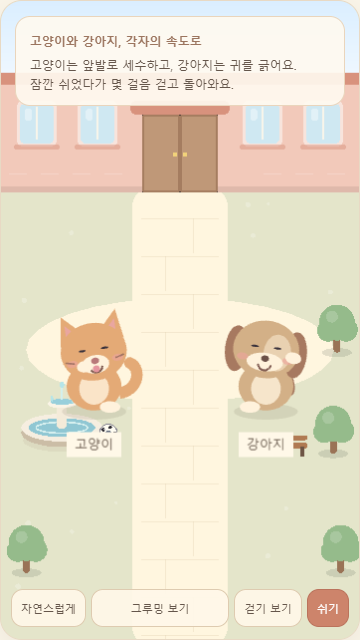
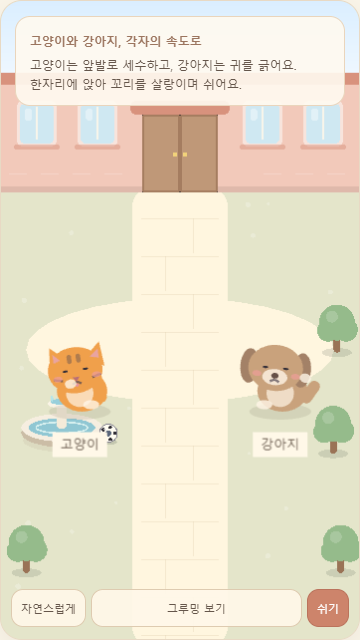
fix(game): 공개판 고양이 비율 복원하고 동물 자리 고정

diff --git a/game/review/round/pets.ts b/game/review/round/pets.ts
@@ -1,45 +1,44 @@
 import Phaser from 'phaser';
 import { petPoseAt, type PetKind } from './pet-motion';
 
-/** Review art only. Each pet stays within a few steps of its original spot. */
+/** Preserve draw.ts's public cat face: small eyes, short head, whiskers and stripes. */
+function petHead(scene:Phaser.Scene,kind:PetKind,fur:number){
+  const s=scene.add,cat=kind==='cat',face=s.graphics();
+  if(cat){
+    face.fillStyle(fur).fillTriangle(-11,-1,-10,-11,-3,-5).fillTriangle(5,-5,12,-11,13,0);
+    face.fillStyle(0xe9a4a1).fillTriangle(-9,-4,-9,-8,-6,-5).fillTriangle(7,-5,11,-8,11,-4);
+    face.fillStyle(0x514651,.4).fillRoundedRect(-3,-7,2,4,1).fillRoundedRect(1,-7,2,4,1);
+    face.lineStyle(1,0x514651,.7).lineBetween(-10,3,-6,4).lineBetween(7,4,11,3);
+  }
+  face.lineStyle(1,0x514651,.7).lineBetween(0,5,-2,6).lineBetween(0,5,2,6);
+  const eyes=[-4.5,4.5].map(x=>s.circle(x,0,1.2,0x332e38));
+  const tongue=s.ellipse(0,6.5,1.6,1.5,0xe5959e).setVisible(false);
+  const ears=cat?[]:[s.ellipse(-11.5,0,8,15,0xa38167),s.ellipse(11.5,0,8,15,0xa38167)];
+  const root=s.container(0,0,[...ears,s.ellipse(0,0,24,20,fur),
+    ...(cat?[]:[s.ellipse(0,4,11,7,0xfff5e6,.8)]),face,...eyes,
+    s.ellipse(-8,3,4,2.5,0xef9d99,.7),s.ellipse(9,3,4,2.5,0xef9d99,.7),
+    cat?s.triangle(0,4,0,0,3,0,1.5,2,0xb96f76):s.ellipse(0,3.4,3.2,2.5,0x665047),tongue]);
+  return {root,eyes,tongue};
+}
+
+/** Seated public-game proportions; every action stays at the original spot. */
 export class RoundPet {
   readonly root:Phaser.GameObjects.Container;
   private body:Phaser.GameObjects.Container;
-  private head:Phaser.GameObjects.Container;
-  private tail:Phaser.GameObjects.Container;
+  private head:ReturnType<typeof petHead>;
+  private tail:Phaser.GameObjects.Rectangle;
   private paw:Phaser.GameObjects.Ellipse;
-  private tongue:Phaser.GameObjects.Ellipse;
   private feet:Phaser.GameObjects.Ellipse[];
-  private eyes:Phaser.GameObjects.Arc[];
   private clock=0;
   constructor(scene:Phaser.Scene,readonly kind:PetKind,private anchor:{x:number;y:number},scale=1){
-    const s=scene.add,cat=kind==='cat',fur=cat?0xe4aa76:0xd3b087,cream=0xfff2dc;
-    const tailArt=s.graphics();
-    if(cat){
-      const curve=new Phaser.Curves.Path(0,0).cubicBezierTo(5,-13,9,-1,10,-11);
-      tailArt.lineStyle(5,fur).strokePoints(curve.getPoints(14),false).fillStyle(fur).fillCircle(5,-13,2.5);
-    }else tailArt.fillStyle(0xa77960).fillEllipse(0,-6,6,14);
-    this.tail=s.container(11,-7,[tailArt]);
-    this.feet=[-7,7].map(x=>s.ellipse(x,-1,9,5,cream));
-    const ears=s.graphics();
-    if(cat){
-      ears.fillStyle(fur).fillTriangle(-14,-5,-12,-18,-3,-9).fillTriangle(3,-9,12,-18,14,-5);
-      ears.fillStyle(0xe9a6a0).fillTriangle(-11,-8,-11,-14,-6,-9).fillTriangle(6,-9,11,-14,11,-8);
-    }else ears.fillStyle(0xa77960).fillEllipse(-13,0,10,20).fillEllipse(13,0,10,20);
-    const face=s.graphics();
-    face.fillStyle(0xeca49b,.65).fillEllipse(-10,3,5,3).fillEllipse(10,3,5,3);
-    face.fillStyle(cat?0xb87879:0x6c5148).fillEllipse(0,3,3.5,2.8);
-    face.lineStyle(.9,0x805b51).beginPath().arc(0,5.3,2.8,.1,Math.PI-.1).strokePath();
-    if(cat)face.lineStyle(.7,0x805b51,.65).lineBetween(-13,2,-9,3).lineBetween(9,3,13,2);
-    this.eyes=[-5,5].map(x=>s.circle(x,-2,1.65,0x39313b));
-    this.tongue=s.ellipse(0,6.5,3,3,0xe5959e).setVisible(false);
-    this.head=s.container(0,-25,[ears,s.ellipse(0,-1,29,25,fur),
-      ...(cat?[]:[s.ellipse(5,0,12,16,cream,.5)]),
-      s.ellipse(0,4.5,cat?12:16,8,cream),...this.eyes,face,this.tongue]);
-    this.paw=s.ellipse(cat?-7:7,-1,7,5,cream).setVisible(false);
-    this.body=s.container(0,0,[this.tail,s.ellipse(0,-10,24,21,fur),s.ellipse(0,-9,13,14,cream,.8),
-      ...this.feet,this.head,this.paw]);
-    this.root=s.container(anchor.x,anchor.y,[s.ellipse(0,1,28,7,0x756956,.15),this.body])
+    const s=scene.add,cat=kind==='cat',fur=cat?0xf0a04b:0xc9a27c,cream=0xfff5e6;
+    this.tail=s.rectangle(10,-3,5,cat?16:11,fur).setRounded(2.5).setOrigin(.5,1);
+    this.feet=[-7,5].map(x=>s.ellipse(x,-2,7,4,cream,.9));
+    this.head=petHead(scene,kind,fur);
+    this.paw=s.ellipse(-7,-2,5,4,cream,.9).setVisible(false);
+    this.body=s.container(0,0,[this.tail,s.ellipse(1,-8,22,18,fur),s.ellipse(0,-7,12,12,cream,.7),
+      this.head.root,...this.feet,this.paw]);
+    this.root=s.container(anchor.x,anchor.y,[s.ellipse(0,1,27,7,0x756956,.15),this.body])
       .setScale(scale).setDepth(anchor.y).setName('round-pet-'+kind);
     this.reset();
   }
@@ -47,13 +46,13 @@ export class RoundPet {
   step(deltaMs:number,reduced:boolean){
     if(!reduced&&Number.isFinite(deltaMs))this.clock+=Math.max(0,Math.min(deltaMs,50));
     const pose=petPoseAt(this.clock,this.kind,reduced);
-    this.root.setPosition(this.anchor.x+pose.dx*this.root.scaleX,this.anchor.y);
-    this.body.setY(pose.bodyY).setScale(1-pose.breath*.4,1+pose.breath);
-    this.head.setY(-25+pose.headY).setAngle(pose.headAngle);this.tail.setAngle(pose.tailAngle);
-    this.feet.forEach((foot,i)=>foot.setY(-1+(i?pose.rightFoot:pose.leftFoot))
-      .setAlpha(i===(this.kind==='cat'?0:1)?1-pose.groom:1));
-    this.paw.setVisible(pose.groom>0).setAlpha(pose.groom).setPosition(pose.pawX,pose.pawY).setAngle(pose.pawAngle);
-    this.tongue.setVisible(this.kind==='cat'&&pose.groom>.5);
-    this.eyes.forEach(eye=>eye.setScale(1,pose.eyes));
+    this.root.setPosition(this.anchor.x,this.anchor.y);
+    this.body.setScale(1-pose.breath*.4,1+pose.breath);
+    this.head.root.setPosition(-2,-18+pose.headY).setAngle(pose.headAngle);
+    this.tail.setAngle(pose.tailAngle);
+    this.feet.forEach((foot,i)=>foot.setAlpha(i===(this.kind==='cat'?0:1)?.9*(1-pose.groom):.9));
+    this.paw.setVisible(pose.groom>0).setAlpha(pose.groom*.9).setPosition(pose.pawX,pose.pawY).setAngle(pose.pawAngle);
+    this.head.tongue.setVisible(this.kind==='cat'&&pose.groom>.5);
+    this.head.eyes.forEach(eye=>eye.setScale(1,pose.eyes));
   }
 }

diff --git a/game/review/round/pet-preview.ts b/game/review/round/pet-preview.ts
@@ -20,8 +20,8 @@ class PetScene extends Phaser.Scene {
     art.cat?.root.setVisible(false);
     const background=this.add.renderTexture(0,0,W*dpr,H*dpr).setOrigin(0,0).setScale(1/dpr).setDepth(-100000);
     art.box.setScale(dpr);background.draw(art.box);background.render();art.destroy();
-    this.pets=[new RoundPet(this,'cat',{x:W*.26,y:H*.64},2.3),new RoundPet(this,'dog',{x:W*.74,y:H*.64},2.3)];
-    for(const [index,label] of ['고양이','강아지'].entries())this.add.text(W*(index?.74:.26),H*.64+23,label,
+    this.pets=[new RoundPet(this,'cat',{x:W*.22,y:H*.64},Math.min(2.3,W/150)),new RoundPet(this,'dog',{x:W*.78,y:H*.64},Math.min(2.3,W/150))];
+    for(const [index,label] of ['고양이','강아지'].entries())this.add.text(W*(index?.78:.22),H*.64+23,label,
       {fontFamily:'Malgun Gothic, sans-serif',fontSize:'13px',color:'#68594c',backgroundColor:'#fff8e8',padding:{x:8,y:5}})
       .setOrigin(.5,0).setResolution(dpr);
     $('ready').hidden=true;
@@ -32,13 +32,13 @@ class PetScene extends Phaser.Scene {
 const scene=new PetScene();
 new Phaser.Game({type:Phaser.AUTO,parent:'canvas',backgroundColor:'#e4e5ca',width:W*dpr,height:H*dpr,
   scale:{mode:Phaser.Scale.NONE,zoom:1/dpr},render:{antialias:true},audio:{noAudio:true},banner:false,scene});
-function show(action:'natural'|'groom'|'stroll'|'rest'){
+function show(action:'natural'|'groom'|'rest'){
   resting=action==='rest';
-  scene.pets.forEach(pet=>pet.reset(action==='natural'?undefined:action==='groom'?5000:action==='stroll'?11000:0));
+  scene.pets.forEach(pet=>pet.reset(action==='natural'?undefined:action==='groom'?5000:0));
   $('motion-status').textContent=reduced.matches?'모션 줄이기 설정에 따라 편안히 쉬고 있어요.':
     action==='rest'?'잠깐 쉬고 있어요.':action==='groom'?'고양이는 앞발 세수, 강아지는 귀 긁기.':
-    action==='stroll'?'몇 걸음 걷고 원래 자리로 돌아와요.':'쉬기와 그루밍, 짧은 산책을 각자의 속도로 반복해요.';
+    '한자리에서 쉬기와 그루밍을 각자의 속도로 반복해요.';
 }
-for(const action of ['natural','groom','stroll','rest'] as const)$(action).onclick=()=>show(action);
+for(const action of ['natural','groom','rest'] as const)$(action).onclick=()=>show(action);
 reduced.addEventListener('change',()=>show('natural'));
 if(reduced.matches)$('motion-status').textContent='모션 줄이기 설정에 따라 편안히 쉬고 있어요.';

diff --git a/game/review/round/pet-motion.ts b/game/review/round/pet-motion.ts
@@ -1,26 +1,19 @@
 export type PetKind='cat'|'dog';
 
-/** A quiet 18-second loop: rest, groom, rest, a few steps, rest. */
+/** Always seated in one place: quiet pauses, occasional grooming, tail and blink. */
 export function petPoseAt(timeMs:number,kind:PetKind,reduced:boolean){
-  const time=reduced?0:Math.max(0,Number.isFinite(timeMs)?timeMs:0),phase=time%18000;
-  const action=phase>=5000&&phase<8000?'groom':phase>=11000&&phase<15000?'walk':'idle';
+  const time=reduced?0:Math.max(0,Number.isFinite(timeMs)?timeMs:0),phase=time%14000;
+  const action=phase>=5000&&phase<8000?'groom':'idle';
   const groom=action==='groom'?Math.max(0,Math.min(1,(phase-5000)/350,(8000-phase)/350)):0;
-  const progress=action==='walk'?(phase-11000)/4000:0;
-  const walking=Math.sin(progress*Math.PI),stride=Math.sin((phase-11000)/180*Math.PI)*walking;
   const cat=kind==='cat',wash=Math.sin(time/(cat?120:85));
   return {
-    action,groom,
-    dx:action==='walk'?(cat?1:-1)*14*walking*walking:0,
-    bodyY:reduced?0:-Math.abs(stride)*1.1,
-    breath:reduced?0:Math.sin(time/950)*.018,
-    headAngle:reduced?0:groom*((cat?-12:9)+wash*3)+walking*(progress<.5?2:-2),
-    headY:groom*(cat?1:0),
-    pawX:(cat?-7:7)+groom*(cat?3:5),
-    pawY:-1+groom*(-19+wash*(cat?1.5:3)),
-    pawAngle:groom*((cat?-20:20)+wash*12),
-    tailAngle:reduced?0:Math.sin(time/(cat?650:210))*(cat?12:20),
-    leftFoot:-Math.max(0,stride)*2,
-    rightFoot:-Math.max(0,-stride)*2,
-    eyes:reduced?1:groom>0?1-groom*.72:time%4200>4050?.15:1,
+    action,groom,dx:0,
+    breath:reduced?0:Math.sin(time/950)*.012,
+    headAngle:groom*((cat?-10:7)+wash*2),headY:groom*(cat?1:0),
+    pawX:(cat?-7:5)+groom*(cat?3:6),
+    pawY:-2+groom*(-10+wash*(cat?1:2)),
+    pawAngle:groom*((cat?-20:20)+wash*10),
+    tailAngle:cat?(reduced?20:2.5+Math.cos(time/650)*17.5):(reduced?25:25+Math.sin(time/240)*15),
+    eyes:reduced?1:groom>0?1-groom*.6:time%4200>4050?.2:1,
   };
 }

diff --git a/game/review/round/pets.html b/game/review/round/pets.html
@@ -4,11 +4,11 @@
 <body>
 <main class="demo">
   <header class="heading"><div><p>동네 한 바퀴 · 동물 시안</p><h1>느긋한 동네 친구들</h1></div><a href="./adults.html">주민 보기</a></header>
-  <div class="layout"><section class="world" aria-label="쉬고, 그루밍하고, 몇 걸음 걷는 고양이와 강아지">
+  <div class="layout"><section class="world" aria-label="한자리에서 쉬고 그루밍하는 고양이와 강아지">
     <div id="canvas"></div>
-    <div class="world-title"><b>고양이와 강아지, 각자의 속도로</b><p>고양이는 앞발로 세수하고, 강아지는 귀를 긁어요.<br>잠깐 쉬었다가 몇 걸음 걷고 돌아와요.</p></div>
+    <div class="world-title"><b>고양이와 강아지, 각자의 속도로</b><p>고양이는 앞발로 세수하고, 강아지는 귀를 긁어요.<br>한자리에 앉아 꼬리를 살랑이며 쉬어요.</p></div>
     <div id="ready" role="status">동네 친구들이 준비하고 있어요…</div>
-    <div class="toolbar"><button id="natural">자연스럽게</button><button id="groom">그루밍 보기</button><button id="stroll">걷기 보기</button><button id="rest">쉬기</button></div>
+    <div class="toolbar"><button id="natural">자연스럽게</button><button id="groom">그루밍 보기</button><button id="rest">쉬기</button></div>
   </section></div>
   <p id="motion-status" role="status" style="font-size:12px;line-height:1.7;text-align:center">고양이와 강아지가 느긋하게 쉬고 있어요.</p>
   <p style="font-size:12px;text-align:center"><a href="./adults.html">주민과 함께 보기 →</a></p>

diff --git a/game/review/round/roster.ts b/game/review/round/roster.ts
@@ -72,7 +72,7 @@ class RosterScene extends Phaser.Scene {
     art.cat?.root.setVisible(false);
     const background=this.add.renderTexture(0,0,W*dpr,H*dpr).setOrigin(0,0).setScale(1/dpr).setDepth(-100000);
     art.box.setScale(dpr);background.draw(art.box);background.render();art.destroy();
-    this.pets=[new RoundPet(this,'cat',{x:24,y:H*.69},.78),new RoundPet(this,'dog',{x:W-24,y:H*.69},.78)];
+    this.pets=[new RoundPet(this,'cat',{x:20,y:H*.69},.78),new RoundPet(this,'dog',{x:W-20,y:H*.69},.78)];
     residents.forEach((resident,i)=>{
       const anchor={x:W*[.2,.5,.8][i%3],y:showAdults?H*.42+Math.floor(i/3)*(H-88-H*.42)/3:H*(i<3?.53:.77)};
       const actor=this.makeActor(resident,anchor.x,anchor.y);
